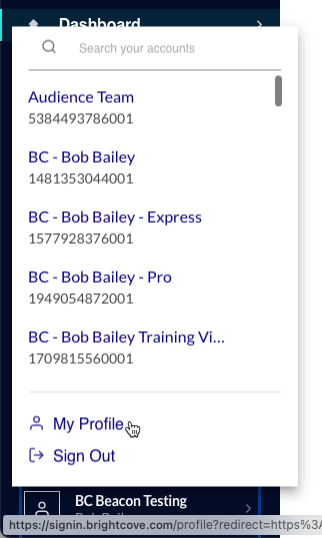
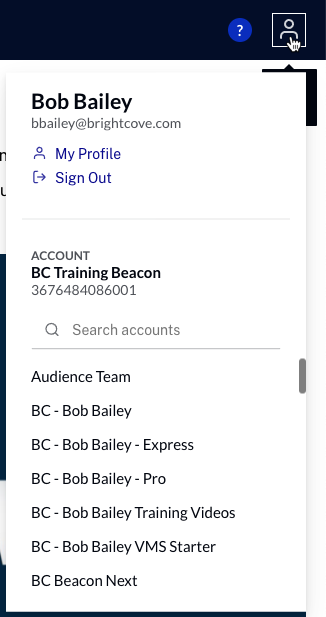
updates

Changed region(s): [[0.0, 0.0, 1.0, 1.0], [0.0932, 0.3866, 0.6211, 0.5651], [0.0932, 0.5948, 0.6832, 0.684]]

diff --git a/_site/admin/managing-account-information.html b/_site/admin/managing-account-information.html
@@ -1390,7 +1390,7 @@ function doGTranslate(lang_pair) {if(lang_pair.value)lang_pair=lang_pair.value;i
   <section class="bcls-section">
     <p>The Account Information page manages the account name and mailing address. To access the Account Administration page:</p>
     <ol class="bcls-tasklist-restart">
-      <li>In the left navigation, click <strong>Admin</strong>. Note that you must be an account administrator to access to the Administration page.</li>
+      <li>In the primary navigation, click <strong>Admin</strong>. Note that you must be an account administrator to access to the Administration page.</li>
       <li>Click<strong> Account Information</strong>.</li>
     </ol>
     <p>Information about the account will be displayed.</p>

diff --git a/admin/managing-account-information.html b/admin/managing-account-information.html
@@ -8,7 +8,7 @@ parent: Administering Accounts
   <section class="bcls-section">
     <p>The Account Information page manages the account name and mailing address. To access the Account Administration page:</p>
     <ol class="bcls-tasklist-restart">
-      <li>In the left navigation, click <strong>Admin</strong>. Note that you must be an account administrator to access to the Administration page.</li>
+      <li>In the primary navigation, click <strong>Admin</strong>. Note that you must be an account administrator to access to the Administration page.</li>
       <li>Click<strong> Account Information</strong>.</li>
     </ol>
     <p>Information about the account will be displayed.</p>

diff --git a/_site/admin/managing-profile-information.html b/_site/admin/managing-profile-information.html
@@ -1392,7 +1392,7 @@ function doGTranslate(lang_pair) {if(lang_pair.value)lang_pair=lang_pair.value;i
     <p>To access the Profile Information page:</p>
     <ol class="bcls-tasklist-restart">
       <li>Login in to Beacon Studio.</li>
-      <li>In  the primary navigation, click the profile image. The account selector list will display.
+      <li>In  the top navigation, click the profile image. The account selector list will display.
         <figure class="bcls-figure"><img class="bcls-image--no-border" alt="Profile information link" src="/assets/images/admin/profile-my-profile.png" /></figure>
       </li>
       <li>Click <strong>My Profile.</strong></li>

diff --git a/admin/managing-profile-information.html b/admin/managing-profile-information.html
@@ -10,7 +10,7 @@ parent: Administering Accounts
     <p>To access the Profile Information page:</p>
     <ol class="bcls-tasklist-restart">
       <li>Login in to Beacon Studio.</li>
-      <li>In  the primary navigation, click the profile image. The account selector list will display.
+      <li>In  the top navigation, click the profile image. The account selector list will display.
         <figure class="bcls-figure"><img class="bcls-image--no-border" alt="Profile information link" src="/assets/images/admin/profile-my-profile.png" /></figure>
       </li>
       <li>Click <strong>My Profile.</strong></li>
